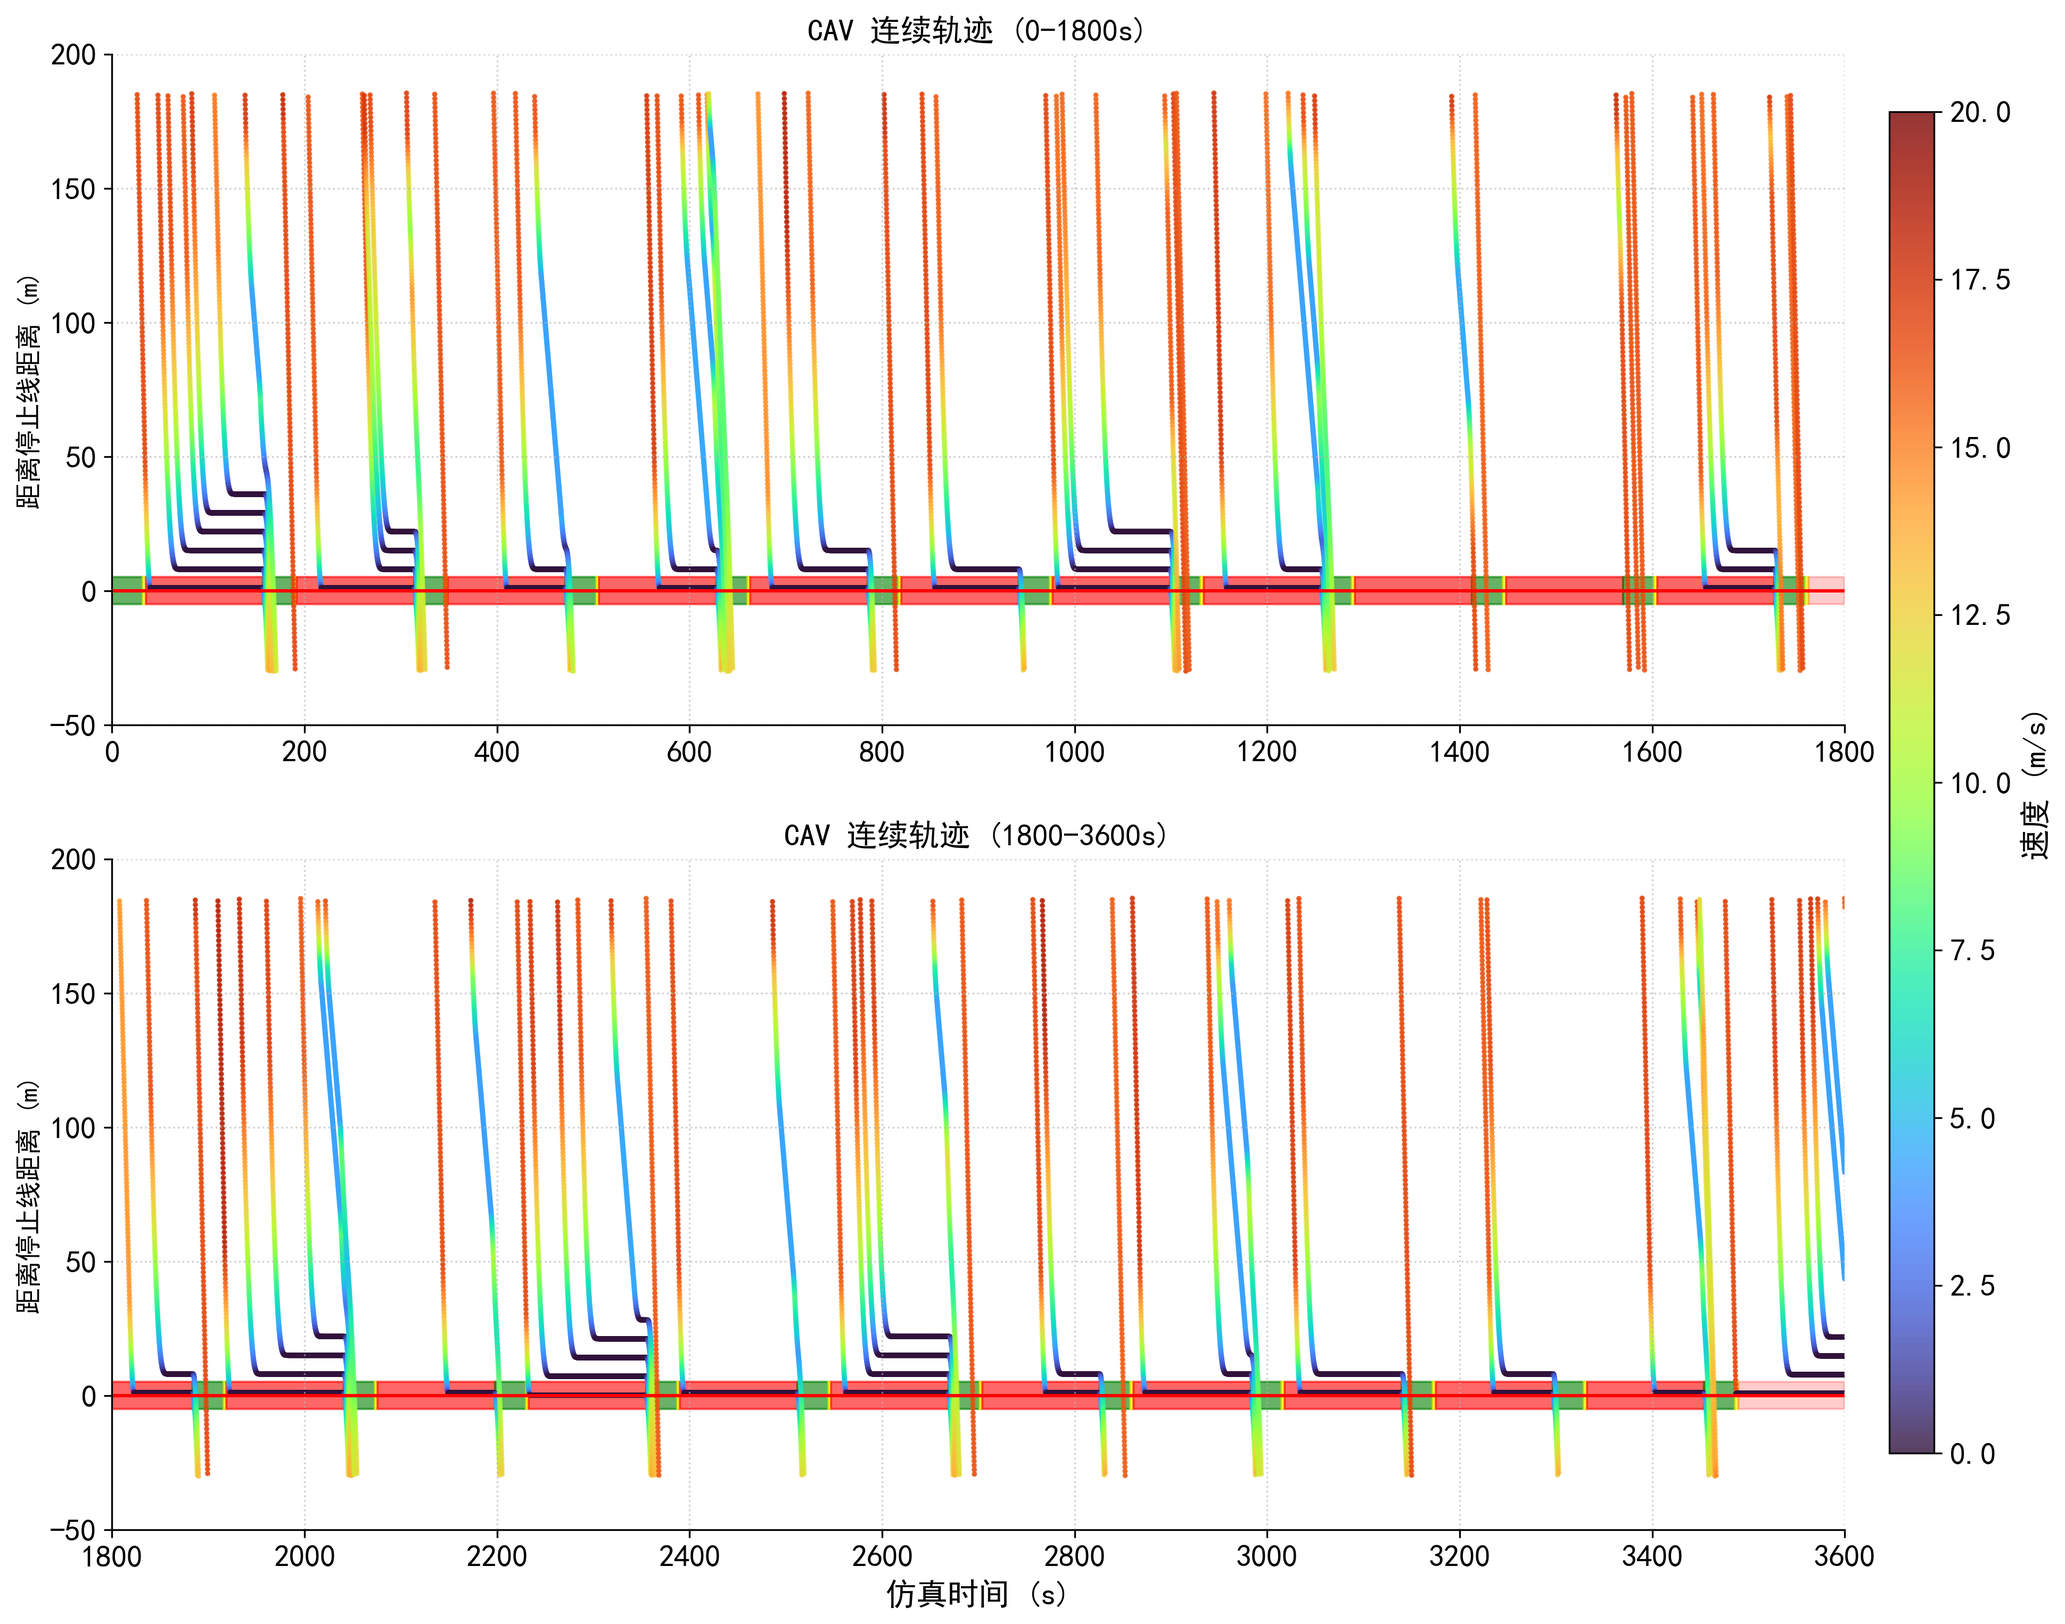
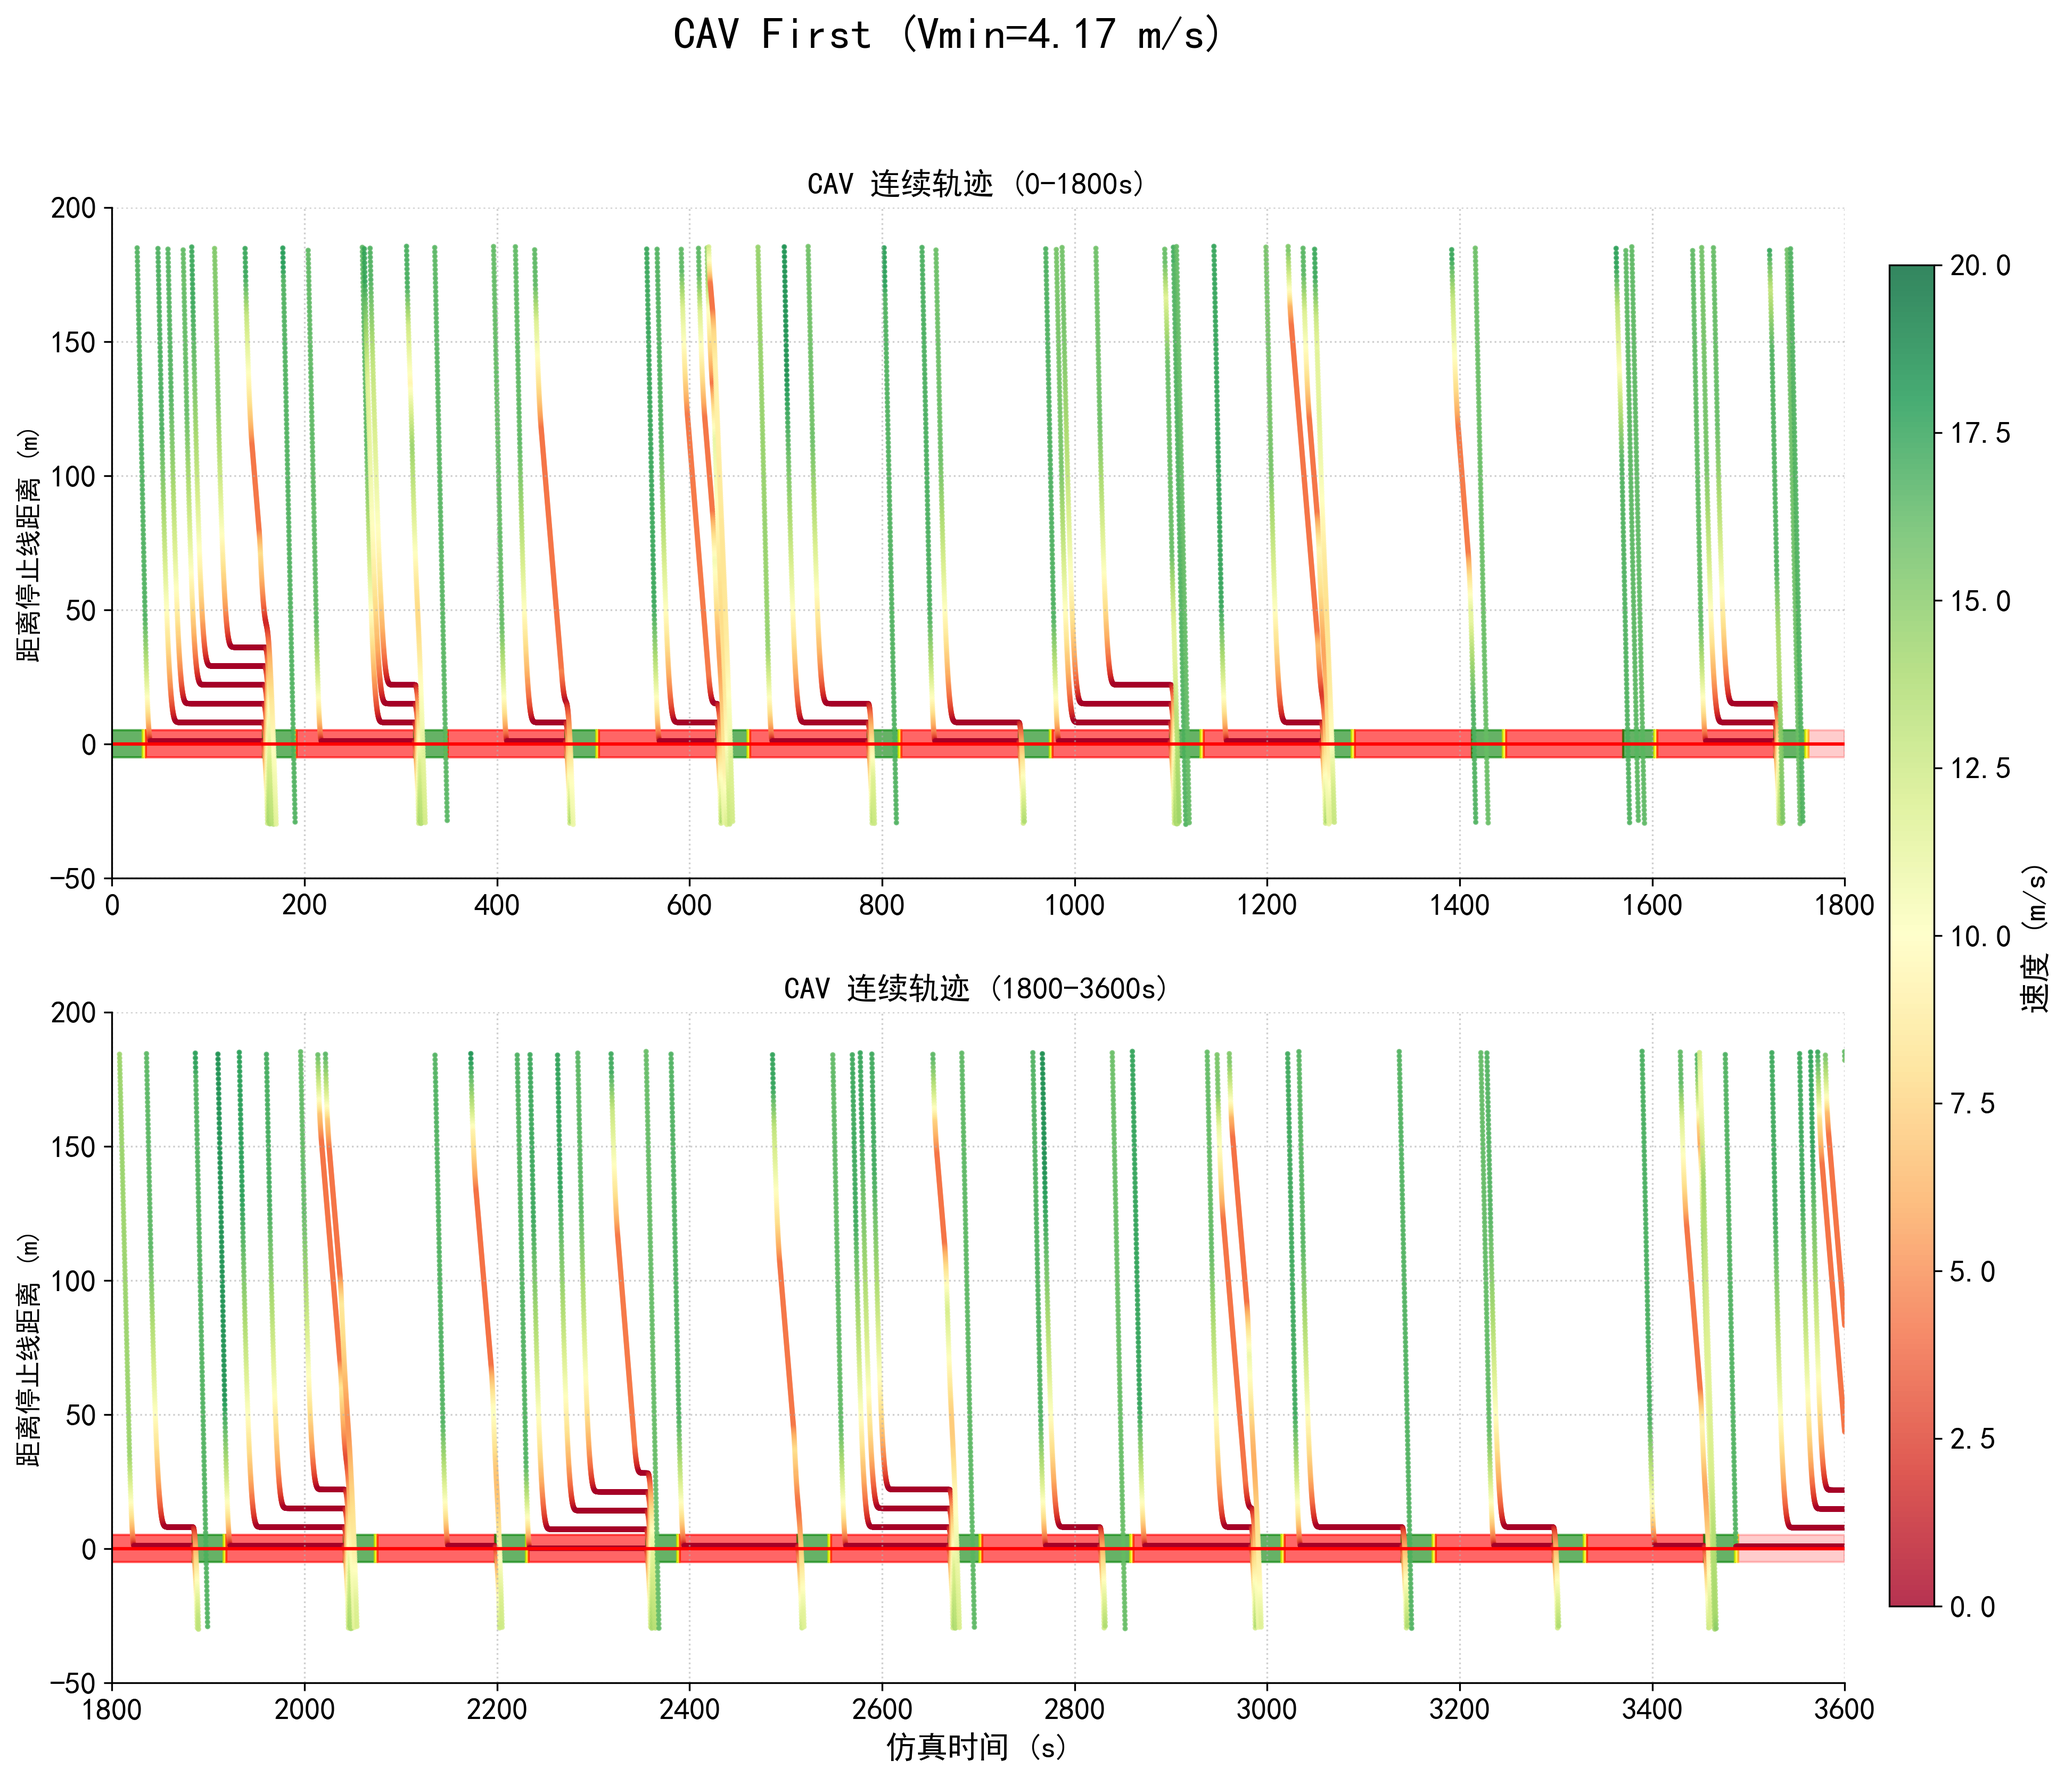
feat(cav): 调整CAV仿真参数与绘图配置
- 修改绘图DPI为300并更新颜色映射为RdYlGn
- 添加根据测试名称显示模式和速度信息的标题
- 扩展MIN_SPEED范围新增30km/h选项
- 设置初始MIN_SPEED为0并调整仿真速度控制逻辑
- 优化仿真步进时间控制提升运行效率

diff --git a/analyze_results_cav.py b/analyze_results_cav.py
@@ -266,9 +266,9 @@ def plot_aligned_trajectory(test_name='20251122_20_cav_first', in_dir='east'):
     print(f"准备绘图，共 {len(plot_trajectories)} 条轨迹...")
 
     # ================= 第三步：双子图绘制 =================
-    fig, axes = plt.subplots(nrows=2, ncols=1, figsize=(14, 12), sharey=True)
+    fig, axes = plt.subplots(nrows=2, ncols=1, figsize=(14, 12),dpi=300, sharey=True)
 
-    cmap = plt.get_cmap('turbo')
+    cmap = plt.get_cmap('RdYlGn')
     norm = colors.Normalize(vmin=0, vmax=20)
     sc_mappable = None
     TIME_SPLIT = 1800
@@ -315,6 +315,21 @@ def plot_aligned_trajectory(test_name='20251122_20_cav_first', in_dir='east'):
         cbar_ax = fig.add_axes([0.92, 0.15, 0.02, 0.7])
         fig.colorbar(sc_mappable, cax=cbar_ax, label='速度 (m/s)')
 
+    # 根据test_name确定是Normal还是CAV First模式，并提取速度值
+    if test_name == 'normal':
+        mode_title = 'Normal'
+        vmin_text = ''
+    else:
+        mode_title = 'CAV First'
+        # 从文件夹名称中提取速度值，例如 cav_first_4.17 -> 4.17 m/s
+        try:
+            vmin_value = float(test_name.split('_')[-1])
+            vmin_text = f' (Vmin={vmin_value:.2f} m/s)'
+        except:
+            vmin_text = ''
+
+    # 添加大标题显示模式和速度信息
+    fig.suptitle(f'{mode_title}{vmin_text}', fontsize=20, fontweight='bold')
 
     save_path = f'results/{test_name}_{in_dir}.png'
     plt.savefig(save_path, dpi=300, bbox_inches='tight')
@@ -322,7 +337,7 @@ def plot_aligned_trajectory(test_name='20251122_20_cav_first', in_dir='east'):
     plt.show()
 
 
-for MIN_SPEED in [0, 15 / 3.6, 20 / 3.6, 25 / 3.6]:
+for MIN_SPEED in [0, 15 / 3.6, 20 / 3.6, 25 / 3.6, 30 / 3.6]:
     if MIN_SPEED == 0:
         out_folder = 'normal'
     else:

diff --git a/cav.py b/cav.py
@@ -118,7 +118,7 @@ def get_all_cav_loc(ID_list):
 
 USE_GUI = False
 # for MIN_SPEED in [0,15/3.6,20/3.6,25/3.6]:
-MIN_SPEED = [0,15/3.6,20/3.6,25/3.6][3]
+MIN_SPEED = [0,15/3.6,20/3.6,25/3.6,30/3.6][0]
 
 if MIN_SPEED==0:
     CAV_FIRST = False
@@ -149,7 +149,7 @@ traci.start([f"sumo{'-gui'*USE_GUI}", "-c", "crossroad_simulation.sumocfg",
 MAX_SPEED = traci.lane.getMaxSpeed('east_in_3')
 MAX_ACCLERATION = traci.vehicletype.getDecel('taxi')
 MIN_ACCLERATION = MAX_ACCLERATION/3
-simu_speed = 0 # 最大仿真倍速
+simu_speed = 10*USE_GUI # 最大仿真倍速
 if USE_GUI:
     view_id = "View #0"  # 对应默认视图ID
     traci.gui.setZoom(view_id, 800)
@@ -157,7 +157,7 @@ if USE_GUI:
 
 
 time_per_step = 0.1/simu_speed if simu_speed>0 else 0.1
-t0 = time.time()
+
 # time.sleep(10) # 准备录屏
 # while traci.simulation.getMinExpectedNumber() > 0:
 
@@ -167,10 +167,16 @@ phase_duration = [tls_program[i].duration for i in range(len(tls_program))]
 pbar = tqdm(total=37250)
 # for i in range(1000):
 i = 0
+t0 = time.time()
 while traci.simulation.getMinExpectedNumber() > 0:
     i += 1
     pbar.update(1)
     traci.simulationStep()
+    # 控制仿真速度
+    if simu_speed>0:
+        time.sleep(max(0, time_per_step - (time.time() - t0)))
+        t0 = time.time()
+
     if not CAV_FIRST:
         continue
     # 获取车辆要等的信号灯相位编号
@@ -186,8 +192,5 @@ while traci.simulation.getMinExpectedNumber() > 0:
             set_cav_route(veh_id)
         clear_set_route(ID_list)
 
-        # 控制仿真速度
-        # if simu_speed>0:
-        #     time.sleep(max(0, time_per_step - (time.time() - t0)))
-        #     t0 = time.time()
+
 # traci.close(wait=False)
